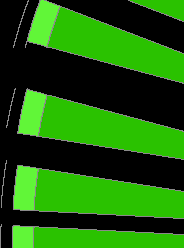
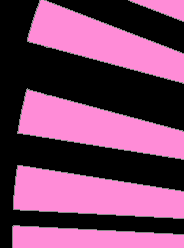
wheel colors

diff --git a/source/menu_wheel.cpp b/source/menu_wheel.cpp
@@ -125,12 +125,14 @@ void MenuWheel::loadFrameBg() {
 			g++;
 		}
 	}
-	dmaCopy(song_framePal, &VRAM_H_EXT_PALETTE[2][0], song_framePalLen);
-	dmaCopy(song_framePal, &VRAM_H_EXT_PALETTE[2][1], song_framePalLen);
-	dmaCopy(group_framePal, &VRAM_H_EXT_PALETTE[2][2], group_framePalLen);
-	dmaCopy(song_framePal, &VRAM_H_EXT_PALETTE[3][0], song_framePalLen);
-	dmaCopy(song_framePal, &VRAM_H_EXT_PALETTE[3][1], song_framePalLen);
-	dmaCopy(group_framePal, &VRAM_H_EXT_PALETTE[3][2], group_framePalLen);
+	for (int i = 2; i < 4; i++) {
+		dmaCopy(song_framePal, &VRAM_H_EXT_PALETTE[i][0], song_framePalLen);
+		dmaCopy(song_framePal, &VRAM_H_EXT_PALETTE[i][1], song_framePalLen);
+		VRAM_H_EXT_PALETTE[i][1][2] = ARGB16(1, 29, 29, 29);
+		dmaCopy(group_framePal, &VRAM_H_EXT_PALETTE[i][2], group_framePalLen);
+		dmaCopy(song_framePal, &VRAM_H_EXT_PALETTE[i][3], song_framePalLen);
+		VRAM_H_EXT_PALETTE[i][3][2] = ARGB16(1, 7, 7, 7);
+	}
 }
 
 void MenuWheel::next() {
@@ -229,7 +231,7 @@ void MenuWheel::input() {
 				case 1:
 					menu->dif->show(item);
 					break;
-				case 0:
+				case 2:
 					rebuildBuffer(item->path, "");
 					break;
 			}
@@ -244,7 +246,6 @@ void MenuWheel::input() {
 
 bool MenuWheel::upDirectory() {
 	string newpath = bufferpath.substr(0, bufferpath.find_last_of('/'));
-	cout << "\nnewpath " << newpath;
 	if (newpath != "") {
 		rebuildBuffer(newpath, bufferpath.substr(bufferpath.find_last_of('/') + 1));
 		return true;
@@ -319,20 +320,30 @@ void MenuWheel::updateColor() {
 	for (int i = buffer->cursor - WHEELVIEW / 2; i <= buffer->cursor + WHEELVIEW / 2; i++) {
 		switch (buffer->items[i].type) {
 			case 0:
-				songFrameColor[item] = 2;
+				songFrameColor[item] = 3;
 				break;
 			case 1:
-				songFrameColor[item] = 1;
+				if (colorSwap) {
+					songFrameColor[item] = item % 2;
+				} else {
+					songFrameColor[item] = (item + 1) % 2;
+				}
+				break;
+			case 2:
+				songFrameColor[item] = 2;
 				break;
 		}
 		item++;
+	}
+	if (!menu->bufferBlock) {
+		colorSwap = !colorSwap;
 	}
 }
 
 void MenuWheel::updateFrameBg() {
 	/*cout << "\n--cursor: " << buffer->cursor << " center: " << buffer->center;
 	for (int i = 0; i < BUFFERSIZE; i++) {
-		cout << "\n" << i << " " << buffer->items[i].name;
+		cout << "\n" << i << " " << buffer->items[i].name << " " << buffer->items[i].type;
 		if (buffer->cursor == i) {
 			cout << "<-";
 		}

diff --git a/source/buffer.cpp b/source/buffer.cpp
@@ -31,32 +31,40 @@ void Buffer::fill(string focus) {
 	    		if ((strcmp(".", pent->d_name) == 0) || (strcmp("..", pent->d_name) == 0)) {
 	        		continue;
 	    		}
-	    		if (depth == 0 && pent->d_type == DT_DIR) {
-	    			dircount++;
-	    			isgroup = true;
-	    			if (size != -1) {
-	    				pos = dircountToBuffer(dircount);
-	        			if (pos != -1) {
-	        				if (items[pos].type == -1) {
-	        					bufferitem group;
-		        				group.type = 0;
-		        				group.name = pent->d_name;
-		        				group.path = dir + '/' + pent->d_name;
-		        				items[pos] = group;
+	    		if (pent->d_type == DT_DIR) {
+	    			if (depth == 0) {
+		    			dircount++;
+		    			isgroup = true;
+		    			if (size != -1) {
+		    				pos = dircountToBuffer(dircount);
+		        			if (pos != -1) {
+		        				if (items[pos].type == -1) {
+		        					bufferitem group;
+			        				group.type = 0;
+			        				group.name = pent->d_name;
+			        				group.path = dir + '/' + pent->d_name;
+			        				items[pos] = group;
+		        				}
+		        				buffercount++;
+		        			}
+		        		} else {
+		        			if (focus == pent->d_name) {
+	        					focuscount = dircount;
 	        				}
-	        				buffercount++;
-	        			}
-	        		} else {
-	        			if (focus == pent->d_name) {
-        					focuscount = dircount;
-        				}
-	        		}
-	        		if (parse(dir + '/' + pent->d_name, depth + 1)) {
-	        			return true;
-	        		}
-	    			if (buffercount > BUFFERSIZE) {
-	    				return true;
-	    			}
+		        		}
+		        		if (parse(dir + '/' + pent->d_name, depth + 1)) {
+		        			return true;
+		        		}
+		    			if (buffercount > BUFFERSIZE) {
+		    				return true;
+		    			}
+		    		} else {
+		    			if (size != -1) {
+		    				pos = dircountToBuffer(dircount);
+		    				bufferitem* group = &items[pos];
+							group->type = 2;
+		    			}
+		    		}
 	    		}
 	    		else if (!isgroup) {
 	        		for (int i = 0; pent->d_name[i] != '\0'; i++) {

diff --git a/source/config.cpp b/source/config.cpp
@@ -180,9 +180,9 @@ void Config::prev() {
 
 void Config::updateSprites() {
 	//speed
-	oamSet(&oamSub, valueSprites[0], 188, -y + 40 , 0, 3, SpriteSize_16x16, SpriteColorFormat_16Color, numberGfx[settings.speed], 0, false, false, false, false, false);
+	oamSet(&oamSub, valueSprites[0], 188, -y + 40 , 0, 4, SpriteSize_16x16, SpriteColorFormat_16Color, numberGfx[settings.speed], 0, false, false, false, false, false);
 	//opacity
-	oamSet(&oamSub, valueSprites[1], 188, -y + 40 + 32, 0, 3, SpriteSize_16x16, SpriteColorFormat_16Color, numberGfx[settings.opacity], 0, false, false, false, false, false);
+	oamSet(&oamSub, valueSprites[1], 188, -y + 40 + 32, 0, 4, SpriteSize_16x16, SpriteColorFormat_16Color, numberGfx[settings.opacity], 0, false, false, false, false, false);
 	//startup song
 	if (settings.intro) {
 		oamSet(&oamSub, valueSprites[2], 188, -y + 40 + 32 * 2, 0, 1, SpriteSize_16x16, SpriteColorFormat_16Color, markGfx, 0, false, false, false, false, false);

diff --git a/source/menu.cpp b/source/menu.cpp
@@ -63,8 +63,10 @@ Menu::~Menu() {
 
 void Menu::loop() {
 	while (1) {
-		loadBanner();
-		loadBuffer();
+		if (ready) {
+			loadBanner();
+			loadBuffer();
+		}
 		if (!idleAudio()) {mmStreamUpdate();}
 		if (state != 0) {
 			return;
@@ -122,11 +124,10 @@ void Menu::loadBanner() {
 
 void Menu::loadBuffer() {
 	if (bufferBlock) {
-		cout << "\nbufferblock focus: " << bufferFocus;
 		wheel->buffer->fill(bufferFocus);
-		wheel->updateFrameBg();
 		wheel->rebuildSongGfx();
 		bufferBlock = false;
+		wheel->updateFrameBg();
 		bufferFocus = "";
 	}
 }

diff --git a/include/menu_wheel.h b/include/menu_wheel.h
@@ -30,7 +30,7 @@ private:
 	void updateSong();
 	void rebuildBuffer(std::string path, std::string focus);
 	bool upDirectory();
-
+	bool colorSwap = false;
 public:
 	MenuWheel(Menu* menu);
 	~MenuWheel();
